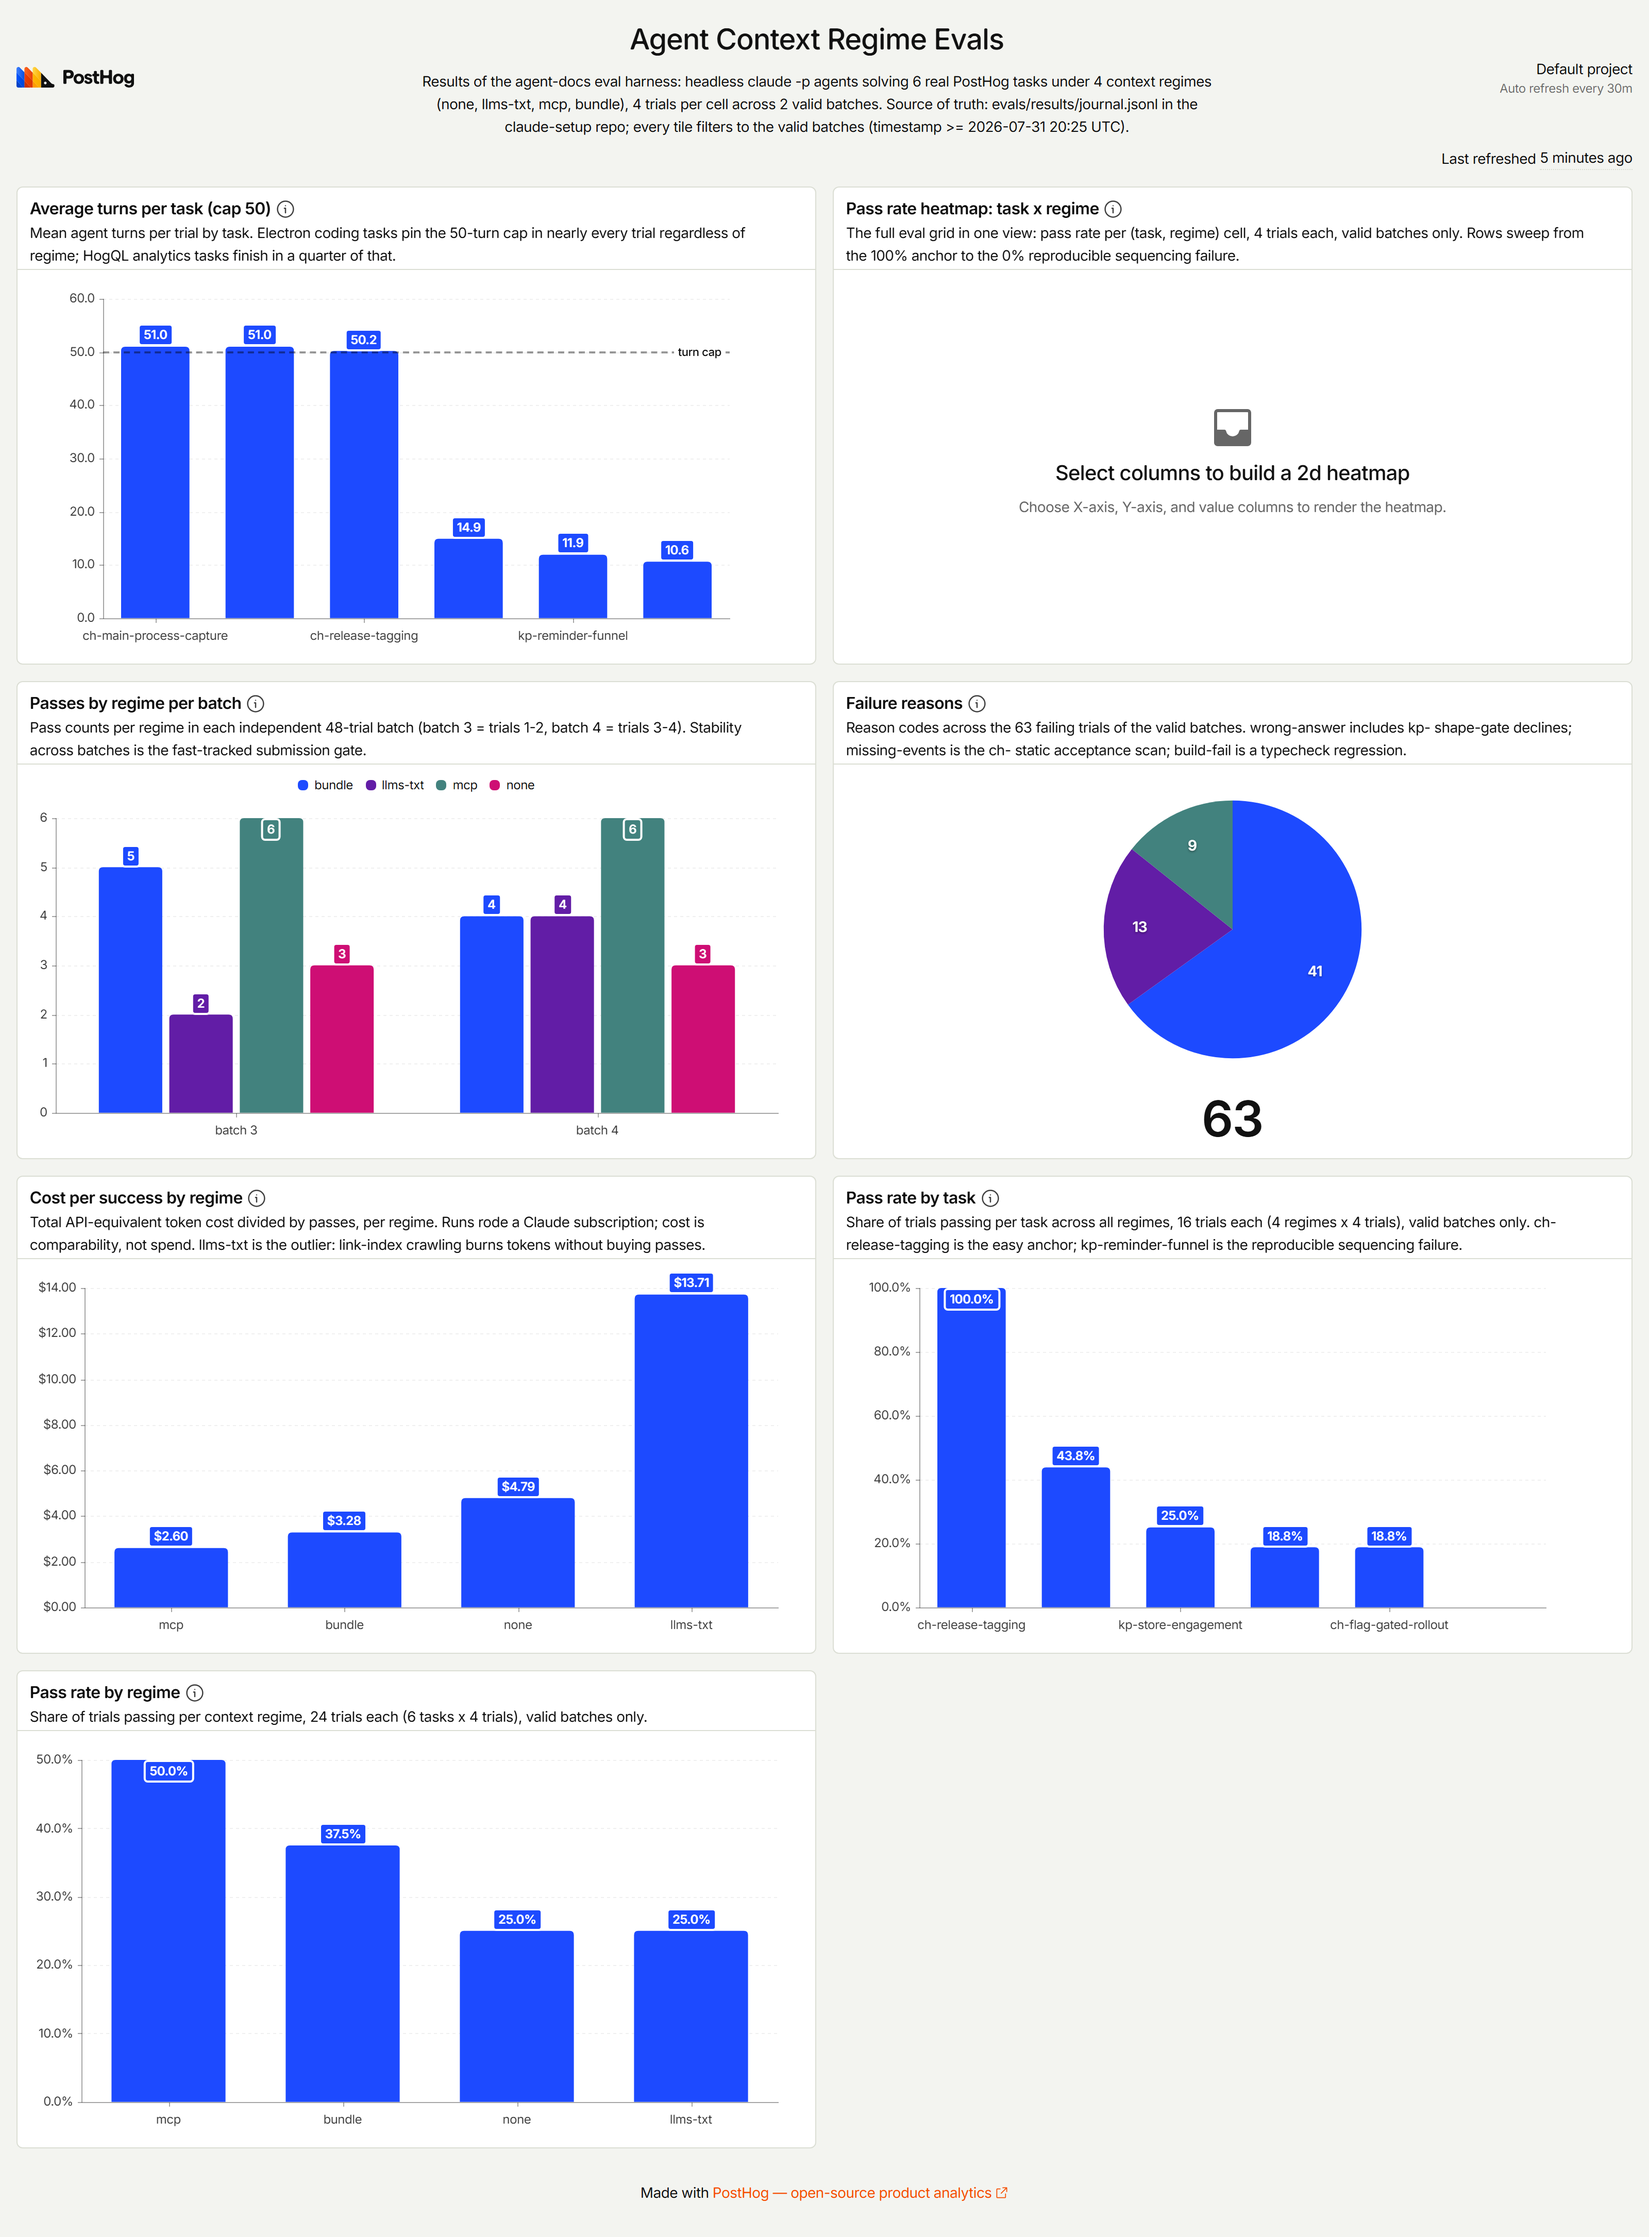
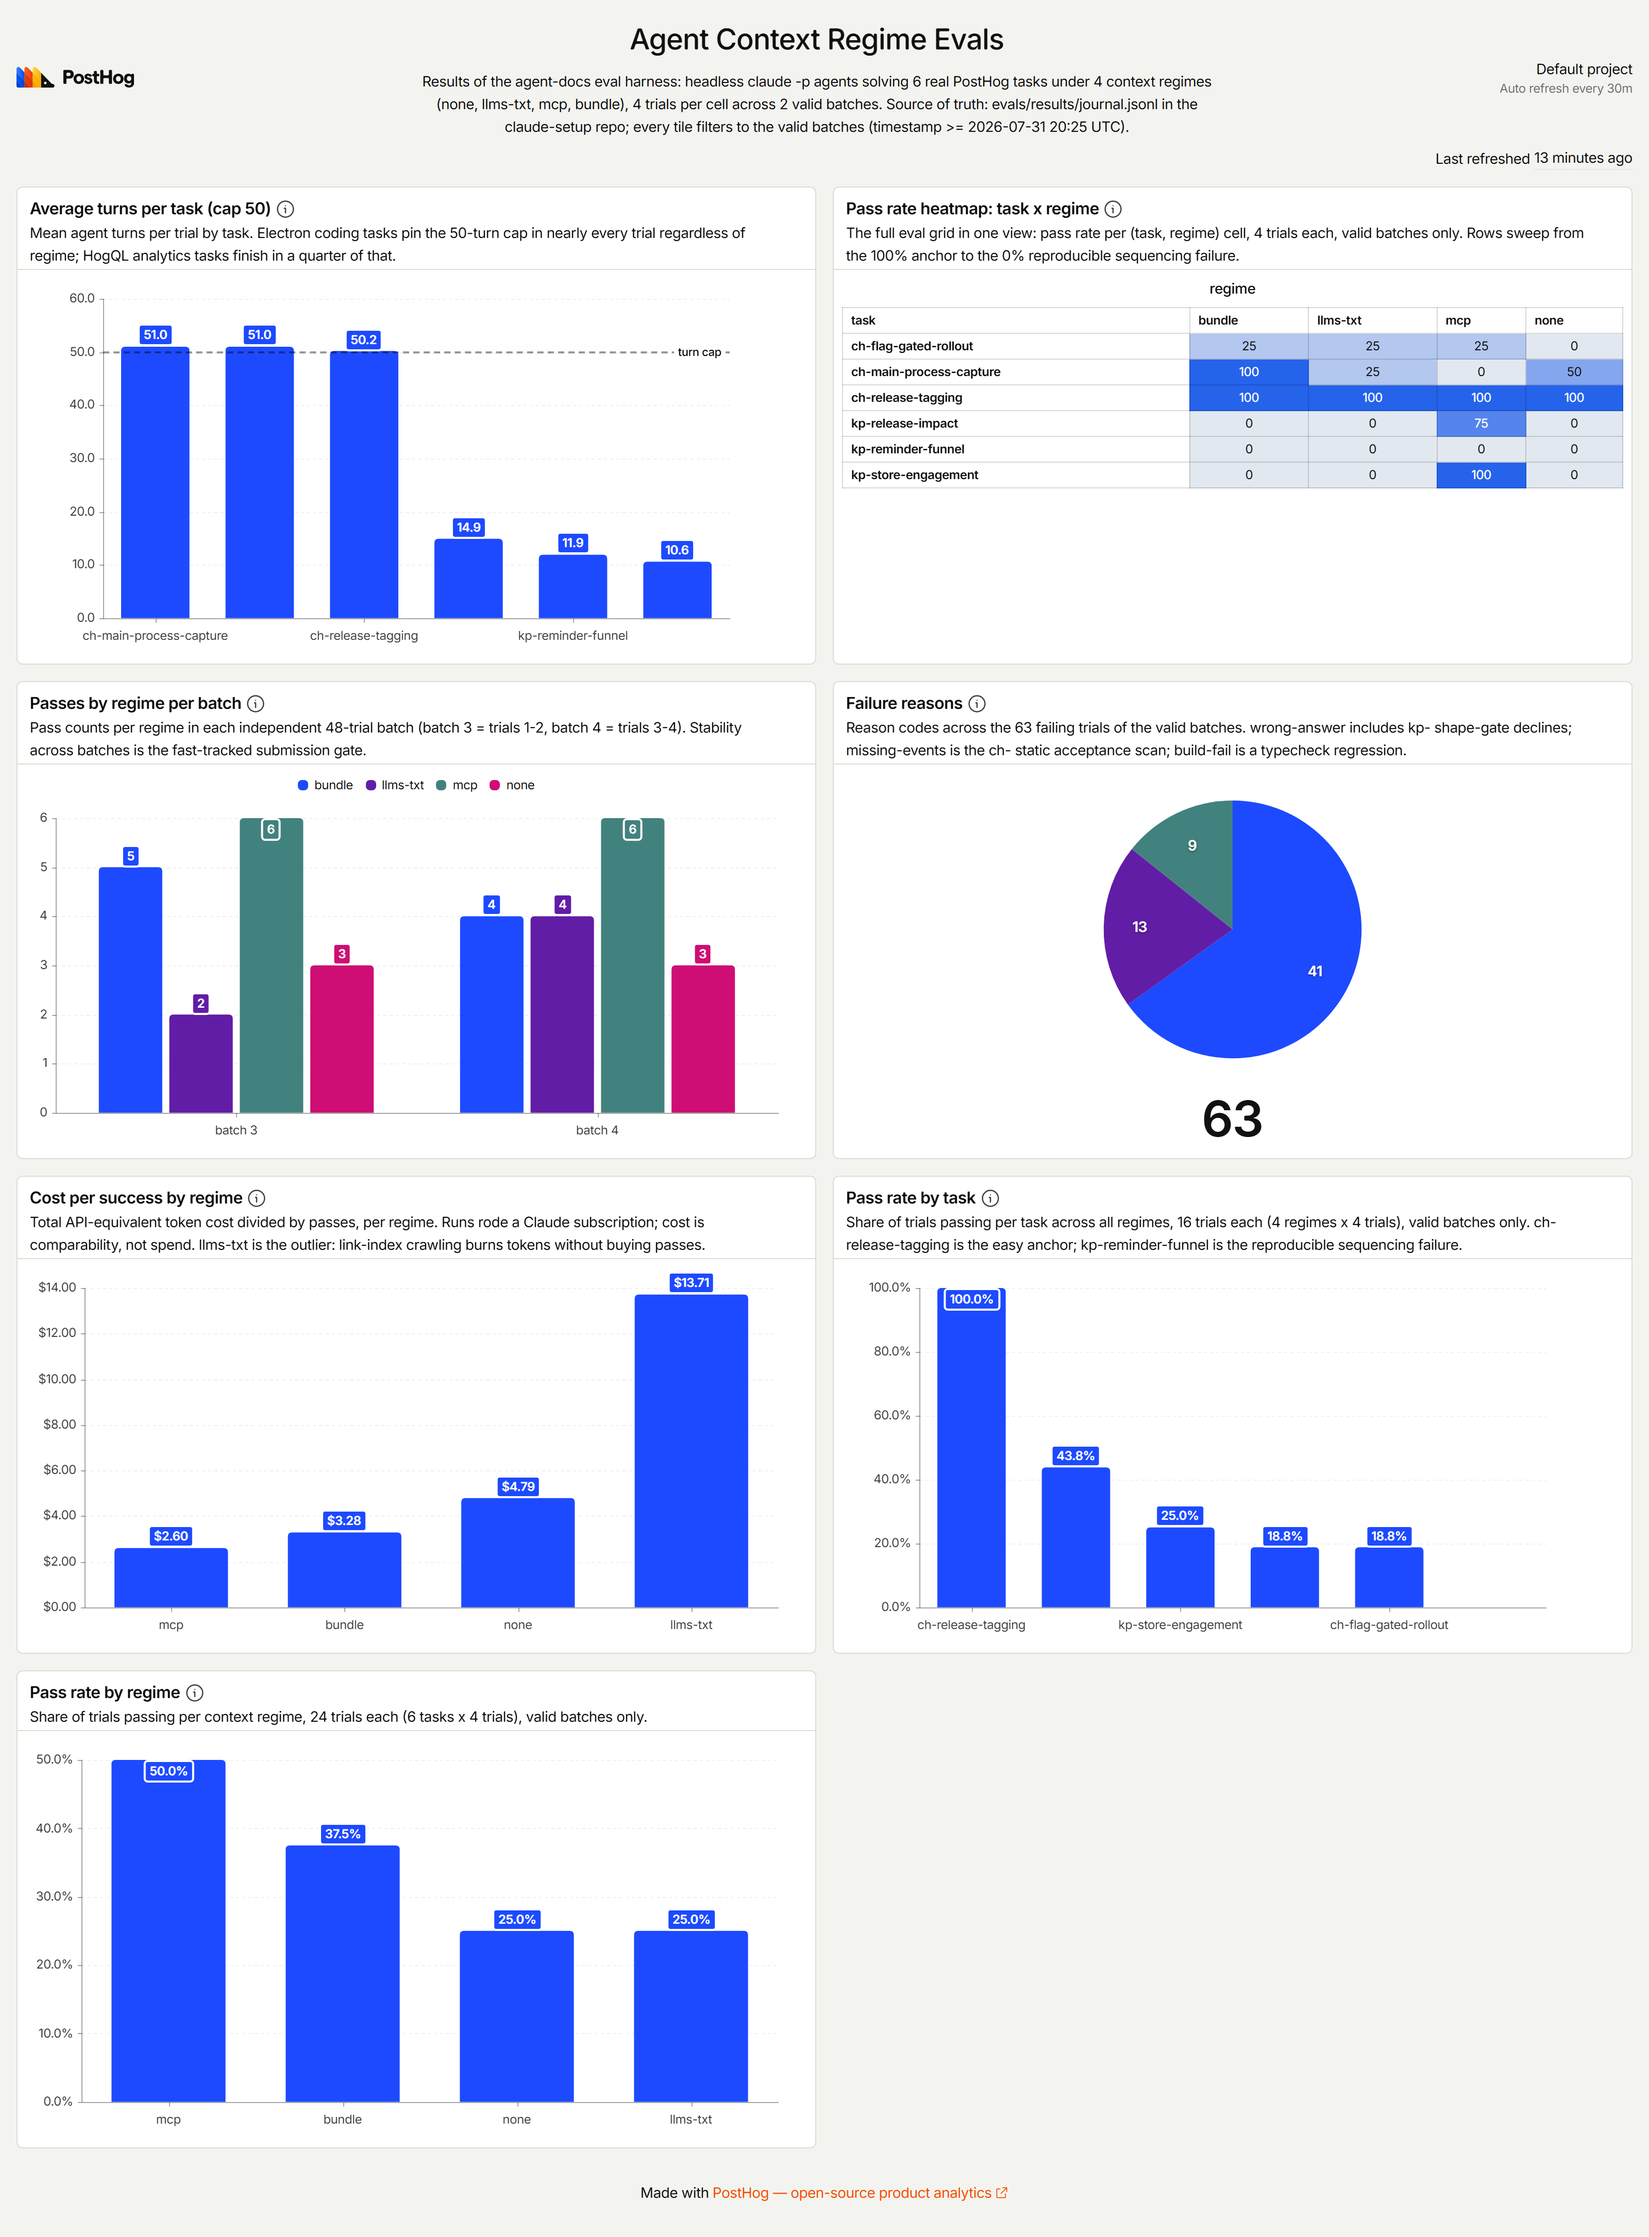
docs(evals): embed task x regime heatmap tile in writeup
Recaptured the heatmap tile from the PostHog share link after setting chartSettings.heatmap column mapping manually in the UI (the MCP schema strips that key; reported to PostHog via agent-feedback). Cropped trailing whitespace and embedded it as the hero grid image directly after the pass/fail table, before the pass-rate-by-regime chart. All seven dashboard tiles are now captured and embedded. Heatmap cell values verified against the journal (ch-flag 25/25/25/0, ch-main 100/25/0/50, anchor 100s, kp-release mcp 75, kp-store mcp 100, funnel zeros).

Constraint: PostHog MCP schema strips the chartSettings.heatmap column mapping key, requiring manual UI configuration to render the tile correctly
Confidence: high
Scope-risk: narrow

Changed region(s): [[0.6562, 0.1244, 1.0, 0.2176], [0.5, 0.1555, 0.5938, 0.2176]]

diff --git a/docs/evals-writeup.md b/docs/evals-writeup.md
@@ -124,6 +124,8 @@ below.
 | kp-store-engagement | ffff | ffff | PPPP | ffff |
 | **Passes / 24** | **6** | **6** | **12** | **9** |
 
+![Pass rate heatmap, task by regime](img/pass-rate-heatmap.png)
+
 ![Pass rate by regime](img/pass-rate-by-regime.png)
 
 ![Pass rate by task](img/pass-rate-by-task.png)
